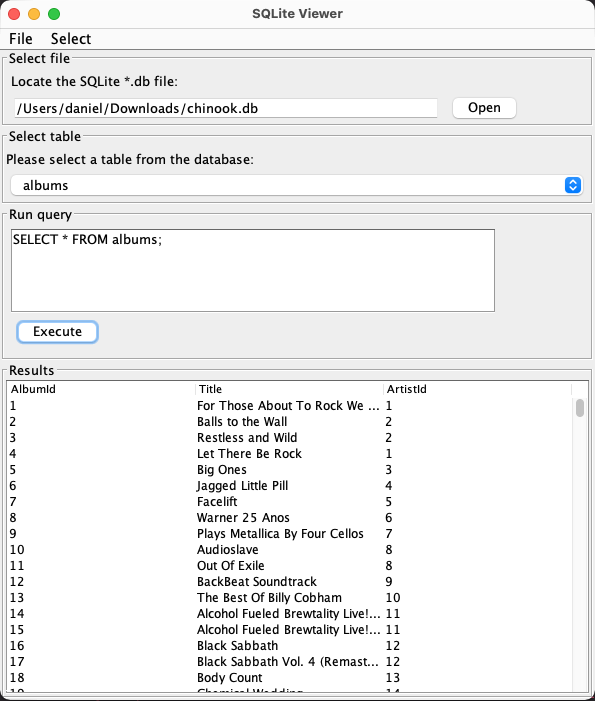
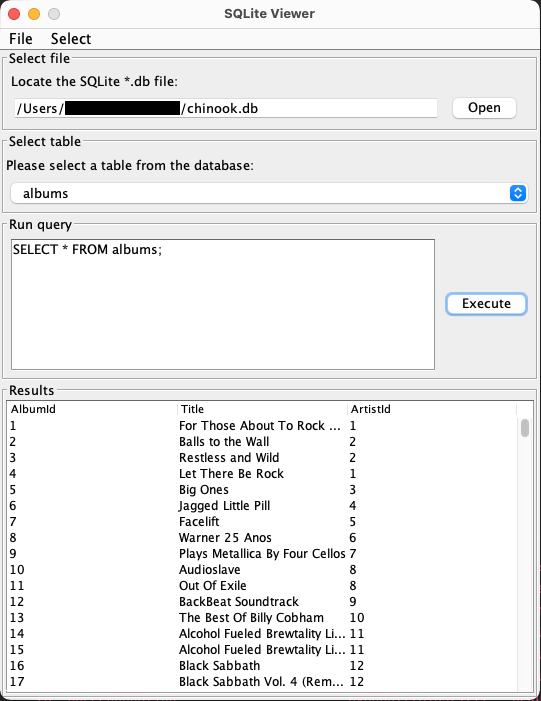
Added sql selection menu and updated readme
Currently, only sqlite is supported. Other flavors may follow

Changed region(s): [[0.0, 0.0, 1.0, 1.0], [0.414, 0.0, 0.5915, 0.03], [0.976, 0.0, 1.0, 0.03]]

diff --git a/app/src/main/java/SQLite/Viewer/SQLiteViewer.java b/app/src/main/java/SQLite/Viewer/SQLiteViewer.java
@@ -16,9 +16,9 @@ public class SQLiteViewer extends JFrame {
     public SQLiteViewer() {
         // Basic window settings
         setDefaultCloseOperation(JFrame.EXIT_ON_CLOSE);
-        setSize(595, 700);
+        setSize(540, 700);
         setLayout(new BorderLayout());
-        setResizable(true);
+        setResizable(false);
         setLocationRelativeTo(null);
         setTitle("SQLite Viewer");
         // Initialize main window components
@@ -41,8 +41,8 @@ public class SQLiteViewer extends JFrame {
 
         JTextArea queryTextArea = new JTextArea();
         queryTextArea.setName("QueryTextArea");
-        queryTextArea.setRows(5);
-        queryTextArea.setColumns(40);
+        queryTextArea.setRows(8);
+        queryTextArea.setColumns(35);
         queryTextArea.setEnabled(false);
         JScrollPane queryTextScroll = new JScrollPane(queryTextArea);
 
@@ -70,9 +70,7 @@ public class SQLiteViewer extends JFrame {
         JMenuItem quitMenuItem = new JMenuItem("Quit");
         quitMenuItem.setAccelerator(KeyStroke.getKeyStroke(KeyEvent.VK_Q,
                 Toolkit.getDefaultToolkit().getMenuShortcutKeyMaskEx()));
-        quitMenuItem.addActionListener(actionEvent -> {
-            System.exit(0);
-        });
+        quitMenuItem.addActionListener(actionEvent -> System.exit(0));
         quitMenuItem.setName("MenuExit");
 
         // Add file menu components
@@ -83,7 +81,8 @@ public class SQLiteViewer extends JFrame {
         // SQL selection menu
         JMenu sqlMenu = new JMenu("Select");
 
-        JMenuItem sqliteMenuItem = new JMenuItem("SQLite");
+        JCheckBoxMenuItem sqliteMenuItem = new JCheckBoxMenuItem("SQLite");
+        sqliteMenuItem.setState(true);
 
         sqlMenu.add(sqliteMenuItem);
 
@@ -164,9 +163,8 @@ public class SQLiteViewer extends JFrame {
                 );
             }
         });
-        tablesComboBox.addItemListener(actionEvent -> {
-            queryTextArea.setText(String.format(Driver.SQL_ALL_ROWS, actionEvent.getItem().toString()));
-        });
+        tablesComboBox.addItemListener(actionEvent ->
+                queryTextArea.setText(String.format(Driver.SQL_ALL_ROWS, actionEvent.getItem().toString())));
         executeButton.addActionListener(actionEvent -> {
             try (Driver driver = new Driver(fileNameTextField.getText())) {
                 DataTableModel tableModel = driver.runQuery(

diff --git a/app/src/main/java/SQLite/Viewer/Driver.java b/app/src/main/java/SQLite/Viewer/Driver.java
@@ -11,19 +11,20 @@ import java.util.Map;
 public class Driver implements AutoCloseable {
 
     private Connection connection;
+    private static String url;
 
+    // Queries
     public static final String SQL_ALL_ROWS = "SELECT * FROM %s;";
     private static final String SQL_FIND_ALL_TABLES =
             "SELECT name FROM sqlite_master WHERE type ='table' AND name NOT LIKE 'sqlite_%';";
 
     public Driver(String fileName) throws SQLException {
+        setUrl();
         connect(fileName);
     }
 
     // Connect to a selected database
     protected void connect(String fileName) throws SQLException {
-        // SQLite default url
-        String url = "jdbc:sqlite:%s";
         SQLiteDataSource dataSource = new SQLiteDataSource();
         dataSource.setUrl(String.format(url, fileName));
         connection = dataSource.getConnection();
@@ -65,6 +66,11 @@ public class Driver implements AutoCloseable {
             }
             return new DataTableModel(columns, data);
         }
+    }
+
+    private void setUrl() {
+        // Currently, only sqlite is supported
+        url = "jdbc:sqlite:%s";
     }
 
     @Override

diff --git a/README.md b/README.md
@@ -22,4 +22,4 @@ _To get started you can download a sample file from sqlitetutorial.net [here](ht
 - SQLite
 
 ## Roadmap
-I plan on adding support for more SQL-flavours such as PostgresQL, MySQL and MSSQL in the future.
+I plan on adding support for more SQL-flavours such as MySQL & MSSQL in the future.
